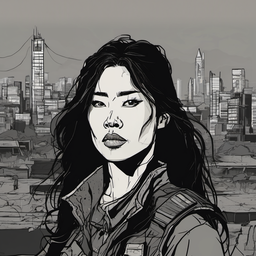
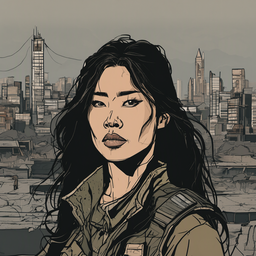
미국 애니메이션 화풍: 차분한 컬러로 통일, 사진 참고 얼굴 24장 추가 (12-139)
- 화풍 colorize 지시와 얼굴 colorize: true: 흑백·회색조로 그려진 그림에 Qwen 편집으로 색을 입힌다.
  정리(cleanup)가 필요한 그림은 한 번의 편집에 함께 실어 Qwen을 한 번만 돌린다. 색을 입혔으면 원본으로 덮어쓰지 않는다
- D 화풍은 palette_D(d_m1)의 색감으로 맞춘다
- 사진 24장을 참고해 각도·헤어·얼굴형·나이를 글로 옮긴 얼굴을 추가 (남 d_m7~d_m18, 여 d_f9~d_f20).
  사진은 생성에 넣지 않고 글 묘사로만 그려 실존 인물과 똑같지 않게 했다. 옷은 민소매·낡은 티셔츠 위주
- d_f2는 얼굴만 흰 면이라 색을 입혔다

diff --git a/scripts/portraits.ts b/scripts/portraits.ts
@@ -34,6 +34,10 @@ type Style = {
   sampler: string;
   scheduler: string;
   grade?: Grade;
+  /**
+   * 색 입히기 지시 (Qwen 편집). colorize: true인 얼굴은 자른 뒤 이 지시로 색을 입힌다 (흑백 그림을 화풍의 컬러로 맞출 때)
+   */
+  colorize?: string;
   /** 이 화풍 전체의 자르는 영역 배율 (기본 1). 1보다 작으면 얼굴이 커진다. 얼굴의 crop_scale과 곱한다 */
   crop_scale?: number;
   /** 머리가 위로 잘리는 화풍용: 위쪽을 이만큼(px, 8의 배수) 이어 그린 뒤 위에서부터 정사각형으로 자른다 */
@@ -49,6 +53,8 @@ type Character = {
   source?: string;
   /** 화풍의 색 보정 대신 이것을 쓴다 (톤만 바꿀 때) */
   grade?: Grade;
+  /** 화풍의 colorize 지시로 색을 입힌다 (흑백·회색조로 그려진 그림) */
+  colorize?: boolean;
   /** 자르는 영역 배율 (기본 1). 고개를 돌려 얼굴 너비가 좁게 재지는 얼굴은 1보다 크게 (얼굴이 작아진다) */
   crop_scale?: number;
   /** 여백이 모자라지 않아도 정리(cleanup)를 한다: 원본에 액자·테두리가 그려진 그림. 글이면 정리 지시에 덧붙인다 */
@@ -308,6 +314,8 @@ async function finishWorkflow(rawName: string, size: { width: number; height: nu
   let image: [string, number] = ["raw", 0];
   const pad = crop?.pad;
   const padded = !!pad && pad.left + pad.top + pad.right + pad.bottom > 0;
+  const colorizeHere = !!(ch.colorize && style.colorize && cleanup);
+  let colorized = false;
   if (cleanup && (padded || ch.cleanup)) {
     // Qwen 편집: 회색 여백을 붙인 그림을 주고 장면을 이어 채우게 한다. 인물은 그대로 두라고 지시한다
     if (padded) {
@@ -321,7 +329,7 @@ async function finishWorkflow(rawName: string, size: { width: number; height: nu
       q_vae: { class_type: "VAELoader", inputs: { vae_name: cleanup.vae } },
       q_enc: {
         class_type: "TextEncodeQwenImage21",
-        inputs: { clip: ["q_clip", 0], vae: ["q_vae", 0], prompt: [cleanup.instruction.trim(), typeof ch.cleanup === "string" ? ch.cleanup.trim() : ""].filter(Boolean).join(" "), negative_prompt: "", resolution: 1024, "images.image_1": image },
+        inputs: { clip: ["q_clip", 0], vae: ["q_vae", 0], prompt: [cleanup.instruction.trim(), typeof ch.cleanup === "string" ? ch.cleanup.trim() : "", colorizeHere ? style.colorize!.trim() : ""].filter(Boolean).join(" "), negative_prompt: "", resolution: 1024, "images.image_1": image },
       },
       q_guider: { class_type: "CFGGuider", inputs: { model: ["q_cache", 0], positive: ["q_enc", 0], negative: ["q_enc", 1], cfg: 1 } },
       q_noise: { class_type: "RandomNoise", inputs: { noise_seed: cleanup.seed } },
@@ -340,9 +348,12 @@ async function finishWorkflow(rawName: string, size: { width: number; height: nu
     const H = size.height + (padded ? pad!.top + pad!.bottom : 0);
     wf.q_size = { class_type: "ImageScale", inputs: { image: ["q_rgb", 0], upscale_method: "lanczos", width: W, height: H, crop: "disabled" } };
     image = ["q_size", 0];
+    // 색 입히기를 이 편집에 함께 실었다 (Qwen을 한 번만 돌린다)
+    colorized = colorizeHere;
     // 원본 안쪽을 고치라는 지시(ch.cleanup)가 없으면, 원래 그림 자리는 원본 픽셀로 다시 덮는다 (Qwen이 인물을 바꾸지 못하게).
     // 이어 채운 쪽 경계만 부드럽게 섞는다
-    if (padded && !ch.cleanup) {
+    // 색 입히기를 함께 했으면 원본(흑백)으로 덮으면 색이 지워진다: 덮지 않는다
+    if (padded && !ch.cleanup && !colorizeHere) {
       const feather = 48;
       wf.keep_mask = { class_type: "SolidMask", inputs: { value: 1, width: size.width, height: size.height } };
       wf.keep_feather = {
@@ -382,6 +393,30 @@ async function finishWorkflow(rawName: string, size: { width: number; height: nu
     wf.crop = { class_type: "ImageCrop", inputs: { image, width: crop.side, height: crop.side, x: crop.x, y: crop.y } };
     image = ["crop", 0];
   }
+  if (colorizeHere && !colorized) {
+    // 자른 그림에 색을 입힌다 (Qwen 편집, 약 1메가픽셀). 결과를 자른 크기로 되돌린다
+    Object.assign(wf, {
+      col_unet: { class_type: "UNETLoader", inputs: { unet_name: cleanup.unet, weight_dtype: "default" } },
+      col_cache: { class_type: "QwenImage21Cache", inputs: { model: ["col_unet", 0], device: "auto", dtype: "default" } },
+      col_clip: { class_type: "CLIPLoader", inputs: { clip_name: cleanup.clip, type: "qwen_image", device: "default" } },
+      col_vae: { class_type: "VAELoader", inputs: { vae_name: cleanup.vae } },
+      col_enc: {
+        class_type: "TextEncodeQwenImage21",
+        inputs: { clip: ["col_clip", 0], vae: ["col_vae", 0], prompt: style.colorize!.trim(), negative_prompt: "", resolution: 1024, "images.image_1": image },
+      },
+      col_guider: { class_type: "CFGGuider", inputs: { model: ["col_cache", 0], positive: ["col_enc", 0], negative: ["col_enc", 1], cfg: 1 } },
+      col_noise: { class_type: "RandomNoise", inputs: { noise_seed: cleanup.seed } },
+      col_sampler: { class_type: "KSamplerSelect", inputs: { sampler_name: "euler" } },
+      col_sigmas: { class_type: "ManualSigmas", inputs: { sigmas: "1.0, 0.978453, 0.95418, 0.926626, 0.89508, 0.845148, 0.704534, 0.414568, 0" } },
+      col_sample: {
+        class_type: "SamplerCustomAdvanced",
+        inputs: { noise: ["col_noise", 0], guider: ["col_guider", 0], sampler: ["col_sampler", 0], sigmas: ["col_sigmas", 0], latent_image: ["col_enc", 2] },
+      },
+      col_decode: { class_type: "VAEDecode", inputs: { samples: ["col_sample", 0], vae: ["col_vae", 0] } },
+      col_rgb: { class_type: "SplitImageWithAlpha", inputs: { image: ["col_decode", 0] } },
+    });
+    image = ["col_rgb", 0];
+  } else if (ch.colorize && !colorizeHere) console.error(`  ! ${prefix}: colorize는 화풍의 colorize 지시와 cleanup 모델이 있어야 합니다`);
   const grade = ch.grade ?? style.grade;
   const gradeRef = grade ? join(artDir, grade.ref) : null;
   if (grade && gradeRef && existsSync(gradeRef)) {

diff --git a/docs/design.md b/docs/design.md
@@ -227,7 +227,7 @@ storylet_tags: [grunt, squad_life]
     - 다 만들면 상태 화면은 시트로 바뀌고 "Claude 세션에서 첫 장면이 이어진다"를 잠깐 띄운다
     - 상태 서버의 `POST /api/creation`은 Claude 세션이 화면 고르기를 열었을 때만 받는다 (JSON만, 설정 창과 같은 까닭)
   - 초상화는 id만 세이브에 남는다. 월드 팩에 주인공 초상화 목록(`art/portraits.yaml`)이 있으면 그 그림(`art/portraits/<id>.png`, 상태 화면이 `/portraits/<팩>/<id>.png`로 내준다)을, 없으면 코드로 그린 실루엣 12종(`ui/Portrait.tsx`, 예전 세이브도)을 그린다
-  - **주인공 초상화** (12-139): NPC 얼굴은 만들지 않고 주인공 얼굴만 고른다. 사용자가 화풍을 고를 수 있게 화풍마다 섹션을 나눈다. post_apoc은 실사 회화(A, 남4·여4) → 미국 애니메이션(D, 남6·여8) → 현대 애니메이션(C, 남2·여6) → 일본 레트로 일러스트(B, 남3·여5) 순. 일반 플레이어는 A·D를, 애니메이션 취향은 B·C를 고를 것으로 본다. core는 `art/portraits.yaml`에서 화풍 이름(`styles.<id>.label`, 적힌 순서가 섹션 순서)과 얼굴의 화풍·성별(`faces.<id>.style·gender`)만 읽고, 나머지 칸은 그림 생성 도구(`pnpm portraits <팩>`, 로컬 ComfyUI)의 설정이다. 목록이 있는 월드는 목록 밖 id와 다른 성별의 얼굴을 받지 않는다
+  - **주인공 초상화** (12-139): NPC 얼굴은 만들지 않고 주인공 얼굴만 고른다. 사용자가 화풍을 고를 수 있게 화풍마다 섹션을 나눈다. post_apoc은 실사 회화(A, 남4·여4) → 미국 애니메이션(D, 남18·여20, 흑백으로 나온 그림은 색을 입혀 차분한 컬러로 맞춘다) → 현대 애니메이션(C, 남2·여6) → 일본 레트로 일러스트(B, 남3·여5) 순. 일반 플레이어는 A·D를, 애니메이션 취향은 B·C를 고를 것으로 본다. core는 `art/portraits.yaml`에서 화풍 이름(`styles.<id>.label`, 적힌 순서가 섹션 순서)과 얼굴의 화풍·성별(`faces.<id>.style·gender`)만 읽고, 나머지 칸은 그림 생성 도구(`pnpm portraits <팩>`, 로컬 ComfyUI)의 설정이다. 목록이 있는 월드는 목록 밖 id와 다른 성별의 얼굴을 받지 않는다
   - 그림 생성 (`scripts/portraits.ts`): 화풍마다 모델이 다르다(A·D는 SDXL Base, B·C는 Animagine XL 4.0). 모든 얼굴의 크기·위치를 맞추려고 상반신까지 넉넉히 그린 뒤 얼굴을 찾아(SAM 3.1) 같은 기준(`framing`)으로 자른다. 여백이 많이 모자라거나 원본에 액자·비네트가 있으면 Qwen Image 2.1 편집(`cleanup`)으로 장면을 이어 채우고 지운다. **Qwen Image 2.1은 Qwen RESEARCH LICENSE(비상업, 연구·평가용)라서 배포용 그림에 쓰려면 상업 라이선스를 받아야 한다.** 마음에 든 옛 그림은 `art/sources/`에 두고 `faces.<id>.source`로 그대로 쓴다
   - 캐릭터에 `gender`, `portrait`가 생겼다. NPC도 콘텐츠에 성별이 있다 (GM 상태의 인물 줄에 보인다)
 - NPC는 콘텐츠에서 한 사람씩 정한다
